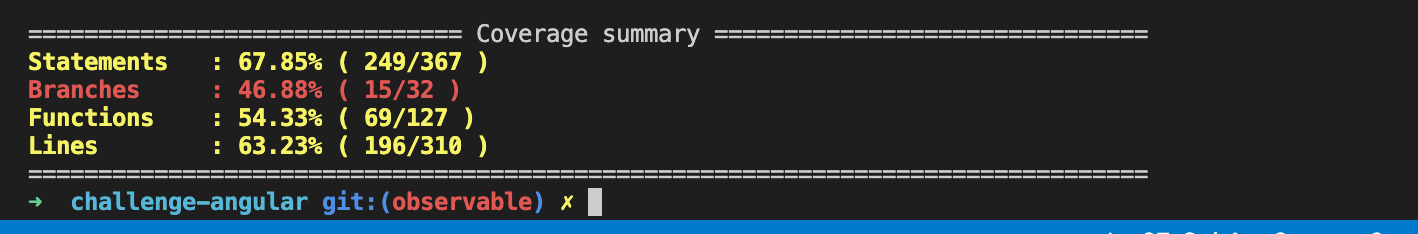
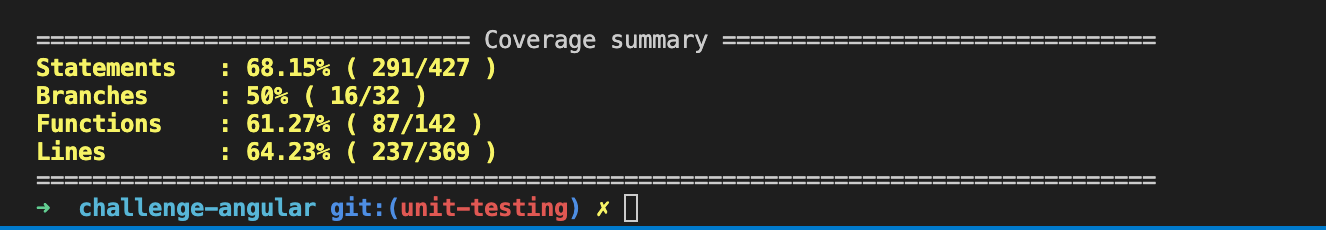
up unit test

Changed region(s): [[0.0, 0.0913, 1.0, 1.0]]

diff --git a/src/app/pages/components/products/service/products.service.spec.ts b/src/app/pages/components/products/service/products.service.spec.ts
@@ -16,4 +16,64 @@ describe('ProductsService', () => {
   it('should be created', () => {
     expect(service).toBeTruthy();
   });
+
+  it('addpocket api', () => {
+    const payload: any = {
+      id: 'asdasdsa',
+      pocketName: 'test',
+      pocketQty: 1,
+      totalAmount: 10,
+      customer: {
+        id: '1231232'
+      },
+      product: {
+        id: '21321321'
+      }
+    }
+    expect(service.addPocket(payload)).toBeTruthy();
+  });
+
+  it('getPocketByCustIdProdId api', () => {
+    const custId: string = '21312312'
+    const prodId: string = '213213123'
+    expect(service.getPocketByCustIdProdId(custId, prodId)).toBeTruthy();
+  });
+
+  it('getProductsByCustomerId api', () => {
+    const custId: string = '21312312'
+    expect(service.getProductsByCustomerId(custId)).toBeTruthy();
+  });
+
+  it('delete api', () => {
+    const pocketId: string = '21312312'
+    expect(service.deletePocket(pocketId)).toBeTruthy();
+  });
+
+  it('getPocketById api', () => {
+    const pocketId: string = '21312312'
+    expect(service.getPocketById(pocketId)).toBeTruthy();
+  });
+
+  it('updatePocketById api', () => {
+    const payload: any = {
+      id: 'asdasdsa',
+      pocketName: 'test',
+      pocketQty: 1,
+      totalAmount: 10,
+      customer: {
+        id: '1231232'
+      },
+      product: {
+        id: '21321321'
+      }
+    }
+    expect(service.updatePocketById(payload)).toBeTruthy();
+  });
+
+
+  it('getProductHistoryPrice api', () => {
+    const prodId: string = '213213123'
+    expect(service.getProductHistoryPrice(prodId)).toBeTruthy();
+  });
+
 });

diff --git a/src/app/pages/components/profile/components/profile/components/template-profile/services/profile.service.spec.ts b/src/app/pages/components/profile/components/profile/components/template-profile/services/profile.service.spec.ts
@@ -1,3 +1,5 @@
+import { HttpClientModule } from '@angular/common/http';
+import { HttpClientTestingModule } from '@angular/common/http/testing';
 import { TestBed } from '@angular/core/testing';
 
 import { ProfileService } from './profile.service';
@@ -6,11 +8,36 @@ describe('ProfileService', () => {
   let service: ProfileService;
 
   beforeEach(() => {
-    TestBed.configureTestingModule({});
+    TestBed.configureTestingModule({
+      imports: [HttpClientTestingModule],
+      providers: [ProfileService]
+    });
     service = TestBed.inject(ProfileService);
   });
 
   it('should be created', () => {
     expect(service).toBeTruthy();
+  });
+
+  it('should getUserById api', () => {
+    const customerId: string = '8a68e47278f8d7b30178f8d865960001'
+    expect(service.getUserById(customerId)).toBeTruthy();
+  });
+
+  it('should updateUserById api', () => {
+    const customer: any = {
+     id: '8a68e47278f8d7b30178f8d865960003',
+     firstName: 'test',
+     lastName: 'test',
+     birthDate: 'test',
+     address: 'test',
+     username: 'test',
+     status: 1,
+     password: 'test',
+     email: 'test',
+     phoneNumber: 'test'
+
+    }
+    expect(service.updateUserById(customer)).toBeTruthy();
   });
 });

diff --git a/src/app/pages/components/profile/components/profile/components/template-profile/profile.component.spec.ts b/src/app/pages/components/profile/components/profile/components/template-profile/profile.component.spec.ts
@@ -4,6 +4,8 @@ import { RouterTestingModule } from '@angular/router/testing';
 import { ProfileRoutingModule } from '../../../../profile-routing.module';
 import { ProfileComponent } from './profile.component';
 import { Location } from "@angular/common"
+import { HttpClientTestingModule } from '@angular/common/http/testing';
+import { ProfileService } from './services/profile.service';
 
 describe('ProfileComponent', () => {
   let component: ProfileComponent;
@@ -14,7 +16,8 @@ describe('ProfileComponent', () => {
   beforeEach(async () => {
     await TestBed.configureTestingModule({
       declarations: [ ProfileComponent ],
-      imports: [RouterTestingModule, RouterTestingModule.withRoutes([]), ProfileRoutingModule]
+      imports: [RouterTestingModule, RouterTestingModule.withRoutes([]), ProfileRoutingModule, HttpClientTestingModule],
+      providers: [ProfileService]
     })
     .compileComponents();
 
@@ -27,7 +30,7 @@ describe('ProfileComponent', () => {
   it('navigate to "" redirect you to /profile', fakeAsync(() => {
     router.navigate([""]).then(() => {
         tick(50);
-        expect(location.path()).toBe('/profile')
+        expect(location.path()).toBe('/')
     })
 }))
 

diff --git a/src/app/pages/components/products/components/transaction/service/transaction.service.spec.ts b/src/app/pages/components/products/components/transaction/service/transaction.service.spec.ts
@@ -1,6 +1,7 @@
 import { getTestBed, inject, TestBed } from '@angular/core/testing';
 import { HttpClientTestingModule, HttpTestingController } from "@angular/common/http/testing"
 import { TransactionService } from './transaction.service';
+import { PurchaseDetail } from '../models/purchase-detail';
 
 describe('TransactionService', () => {
   let service: TransactionService;
@@ -585,7 +586,24 @@ describe('TransactionService', () => {
       })
     })
 
+    it('#transaction api', () => {
+      const customerId: string = '8a68e47278f8d7b30178f8d865960001'
+      const payload: any = {
+        purchaseType: 0,
+        purchaseDetails: [
+            {
+            quantityInGram: 1,
+            pocket: {
+              id: '4028e4907912fcd601791307c9840007'
+            }
+          }
+        ]
+      }
+      expect(service.purchase(customerId, payload)).toBeDefined();
+    });
 
-
-
+    it('#history api', () => {
+      const customerId: string = '8a68e47278f8d7b30178f8d865960001'
+      expect(service.historyPurchases(customerId,)).toBeDefined();
+    });
 });

diff --git a/src/app/pages/components/profile/components/profile/components/setting/setting.component.spec.ts b/src/app/pages/components/profile/components/profile/components/setting/setting.component.spec.ts
@@ -4,6 +4,9 @@ import { RouterTestingModule } from '@angular/router/testing';
 import { SettingRoutingModule } from './setting-routing.module';
 import { Location } from "@angular/common"
 import { SettingComponent } from './setting.component';
+import { HttpClientTestingModule } from '@angular/common/http/testing';
+import { ProfileService } from '../template-profile/services/profile.service';
+import { FormsModule, ReactiveFormsModule } from '@angular/forms';
 
 describe('SettingComponent', () => {
   let component: SettingComponent;
@@ -14,7 +17,10 @@ describe('SettingComponent', () => {
   beforeEach(async () => {
     await TestBed.configureTestingModule({
       declarations: [ SettingComponent ],
-      imports: [RouterTestingModule.withRoutes([]), SettingRoutingModule],
+      imports: [RouterTestingModule.withRoutes([]), SettingRoutingModule, HttpClientTestingModule,
+      FormsModule,
+      ReactiveFormsModule],
+      providers: [ProfileService]
     })
     .compileComponents();
 

diff --git a/src/app/pages/components/products/components/products/products.component.ts b/src/app/pages/components/products/components/products/products.component.ts
@@ -46,12 +46,6 @@ export class ProductsComponent implements OnInit {
     })
   }
 
-  refresh(customerId:string): void{
-    this.productsService.getAll(customerId).subscribe((response) => {
-      this.data = response;
-    })
-  }
-
   initForm(){
     this.form = new FormGroup({
       pocketName: new FormControl(null, [Validators.required]),
@@ -86,11 +80,9 @@ export class ProductsComponent implements OnInit {
     pocket.customer = { id: this.customerId }
     pocket.product = { id: this.productId}
     this.productsService.updatePocketById(pocket).subscribe((response) => {
-
       alert('success update')
       this.ngOnInit()
     })
-
   }
 
   getPocketById(pocketId: string){
@@ -110,8 +102,6 @@ export class ProductsComponent implements OnInit {
         this.sell = 'active'
     }
   }
-
-
 
   getPocketByCustIdProdId(productId: string){
     this.productsService.getPocketByCustIdProdId(this.customerId, productId).subscribe((response) => {

diff --git a/src/app/pages/components/products/components/sell-gold/sell-gold.component.spec.ts b/src/app/pages/components/products/components/sell-gold/sell-gold.component.spec.ts
@@ -1,6 +1,8 @@
+import { HttpClientTestingModule } from '@angular/common/http/testing';
 import { ComponentFixture, TestBed } from '@angular/core/testing';
 import { FormGroup, FormsModule, ReactiveFormsModule } from '@angular/forms';
 import { RouterTestingModule } from '@angular/router/testing';
+import { ProfileService } from '../../../profile/components/profile/components/template-profile/services/profile.service';
 
 import { SellGoldComponent } from './sell-gold.component';
 
@@ -11,7 +13,8 @@ describe('SellGoldComponent', () => {
   beforeEach(async () => {
     await TestBed.configureTestingModule({
       declarations: [ SellGoldComponent ],
-      imports: [FormsModule, ReactiveFormsModule, RouterTestingModule]
+      imports: [FormsModule, ReactiveFormsModule, RouterTestingModule, HttpClientTestingModule],
+      providers: [ProfileService]
     })
     .compileComponents();
   });

diff --git a/src/app/pages/components/products/components/buy-gold/buy-gold.component.spec.ts b/src/app/pages/components/products/components/buy-gold/buy-gold.component.spec.ts
@@ -1,6 +1,8 @@
+import { HttpClientTestingModule } from '@angular/common/http/testing';
 import { ComponentFixture, TestBed } from '@angular/core/testing';
 import { FormGroup, FormsModule, ReactiveFormsModule } from '@angular/forms';
 import { RouterTestingModule } from '@angular/router/testing';
+import { ProfileService } from '../../../profile/components/profile/components/template-profile/services/profile.service';
 
 import { BuyGoldComponent } from './buy-gold.component';
 
@@ -11,7 +13,8 @@ describe('BuyGoldComponent', () => {
   beforeEach(async () => {
     await TestBed.configureTestingModule({
       declarations: [ BuyGoldComponent ],
-      imports: [FormsModule, ReactiveFormsModule, RouterTestingModule]
+      imports: [FormsModule, ReactiveFormsModule, RouterTestingModule, HttpClientTestingModule],
+      providers: [ProfileService]
     })
     .compileComponents();
   });

diff --git a/src/app/pages/components/profile/components/profile/components/history/history.component.spec.ts b/src/app/pages/components/profile/components/profile/components/history/history.component.spec.ts
@@ -5,6 +5,8 @@ import { HistoryRoutingModule } from './history-routing.module';
 import { Location } from "@angular/common"
 
 import { HistoryComponent } from './history.component';
+import { TransactionService } from 'src/app/pages/components/products/components/transaction/service/transaction.service';
+import { HttpClientTestingModule } from '@angular/common/http/testing';
 
 describe('HistoryComponent', () => {
   let component: HistoryComponent;
@@ -15,7 +17,8 @@ describe('HistoryComponent', () => {
   beforeEach(async () => {
     await TestBed.configureTestingModule({
       declarations: [ HistoryComponent ],
-      imports: [RouterTestingModule.withRoutes([]), HistoryRoutingModule],
+      imports: [RouterTestingModule.withRoutes([]), HistoryRoutingModule, HttpClientTestingModule],
+      providers: [TransactionService]
     })
     .compileComponents();
 

diff --git a/src/app/pages/components/profile/components/profile/components/my-profile/my-profile.component.spec.ts b/src/app/pages/components/profile/components/profile/components/my-profile/my-profile.component.spec.ts
@@ -1,4 +1,7 @@
+import { HttpClientTestingModule } from '@angular/common/http/testing';
 import { ComponentFixture, TestBed } from '@angular/core/testing';
+import { SharedModule } from 'src/app/shared/shared.module';
+import { ProfileService } from '../template-profile/services/profile.service';
 
 import { MyProfileComponent } from './my-profile.component';
 
@@ -8,7 +11,9 @@ describe('MyProfileComponent', () => {
 
   beforeEach(async () => {
     await TestBed.configureTestingModule({
-      declarations: [ MyProfileComponent ]
+      declarations: [ MyProfileComponent ],
+      imports: [HttpClientTestingModule, SharedModule],
+      providers: [ProfileService]
     })
     .compileComponents();
   });

diff --git a/src/app/login/service/login.service.spec.ts b/src/app/login/service/login.service.spec.ts
@@ -8,12 +8,23 @@ describe('LoginService', () => {
 
   beforeEach(() => {
     TestBed.configureTestingModule({
-      imports: [HttpClientModule]
+      imports: [HttpClientModule],
+      providers: [LoginService]
     });
     service = TestBed.inject(LoginService);
   });
 
   it('should be created', () => {
     expect(service).toBeTruthy();
+  });
+
+  it('#getValue should return real value', () => {
+    const mock:any = {
+      "id": "8a68e47278f8d7b30178f8d865960001",
+      "token": "$qwertyasdfghzxcvbnb"
+  }
+
+    const credentials:any =  { username: 'dirga', password: 'password'}
+    expect(service.login(credentials)).toBeDefined()
   });
 });

diff --git a/src/app/pages/components/products/components/sell-gold/sell-gold.component.html b/src/app/pages/components/products/components/sell-gold/sell-gold.component.html
@@ -6,7 +6,7 @@
                 <div class="row mt-2">
                   <div class="col-md">
                       <p>Value on IDR</p>
-                      <input type="text" value="Rp. {{currentPrice | currency: 'IDR'}}" formControlName="idr" style="border: none; text-align: center;" class="center">
+                      <input type="text" value="{{currentPrice | currency: 'IDR'}}" formControlName="idr" style="border: none; text-align: center;" class="center">
                   </div>
                   <div class="col-md">
                       <p>Value on gram</p>
